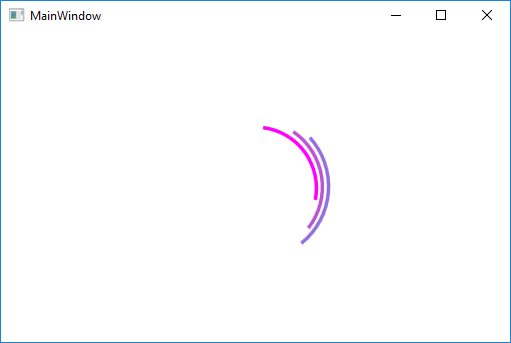
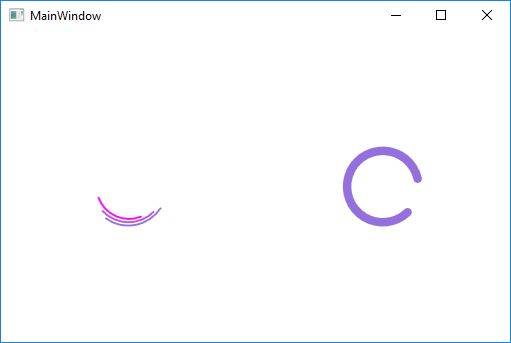
+ added SimplePreloader

Changed region(s): [[0.499, 0.3499, 0.8219, 0.7289], [0.2055, 0.6122, 0.3229, 0.6706], [0.1761, 0.5831, 0.2055, 0.6122]]

diff --git a/XamlPreloader/SimplePreloader.xaml b/XamlPreloader/SimplePreloader.xaml
@@ -1,0 +1,29 @@
+<UserControl x:Class="XamlPreloader.SimplePreloader"
+             xmlns="http://schemas.microsoft.com/winfx/2006/xaml/presentation"
+             xmlns:x="http://schemas.microsoft.com/winfx/2006/xaml"
+             xmlns:mc="http://schemas.openxmlformats.org/markup-compatibility/2006" 
+             xmlns:d="http://schemas.microsoft.com/expression/blend/2008" 
+             xmlns:local="clr-namespace:XamlPreloader"
+             mc:Ignorable="d">
+    <Canvas Height="150" Width="150">
+        <Path Stroke="#9370DB" StrokeThickness="16" RenderTransformOrigin="0.5, 0.5" StrokeEndLineCap="Round" StrokeStartLineCap="Round" Height="150" Stretch="Fill" Width="150">
+            <Path.Data>
+                <PathGeometry Figures="M 139.77658 73.01738 A 64.679222 64.679222 0 0 1 91.487021 135.58559 64.679222 64.679222 0 0 1 18.724391 104.72685 64.679222 64.679222 0 0 1 30.137967 26.519478 64.679222 64.679222 0 0 1 108.68498 17.742851" FillRule="NonZero"/>
+            </Path.Data>
+            <Path.RenderTransform>
+                <RotateTransform x:Name="bigCircle"/>
+            </Path.RenderTransform>
+            <Path.Triggers>
+                <EventTrigger RoutedEvent="Loaded">
+                    <BeginStoryboard>
+                        <Storyboard>
+                            <DoubleAnimation
+                                    Storyboard.TargetProperty="(Path.RenderTransform).(RotateTransform.Angle)"
+                                    To="360" Duration="0:0:1.5" RepeatBehavior="Forever"/>
+                        </Storyboard>
+                    </BeginStoryboard>
+                </EventTrigger>
+            </Path.Triggers>
+        </Path>
+    </Canvas>
+</UserControl>

diff --git a/XamlPreloader/MainWindow.xaml b/XamlPreloader/MainWindow.xaml
@@ -7,8 +7,15 @@
         mc:Ignorable="d"
         Title="MainWindow" Height="350" Width="525">
     <Grid>
-        <Viewbox Width="80" Height="80">
+        <Grid.ColumnDefinitions>
+            <ColumnDefinition/>
+            <ColumnDefinition/>
+        </Grid.ColumnDefinitions>
+        <Viewbox Grid.Column="0" Width="80" Height="80">
             <local:Preloader />
+        </Viewbox>
+        <Viewbox Grid.Column="1" Width="80" Height="80">
+            <local:SimplePreloader />
         </Viewbox>
         
     </Grid>

diff --git a/XamlPreloader/SimplePreloader.xaml.cs b/XamlPreloader/SimplePreloader.xaml.cs
@@ -1,0 +1,28 @@
+using System;
+using System.Collections.Generic;
+using System.Linq;
+using System.Text;
+using System.Threading.Tasks;
+using System.Windows;
+using System.Windows.Controls;
+using System.Windows.Data;
+using System.Windows.Documents;
+using System.Windows.Input;
+using System.Windows.Media;
+using System.Windows.Media.Imaging;
+using System.Windows.Navigation;
+using System.Windows.Shapes;
+
+namespace XamlPreloader
+{
+    /// <summary>
+    /// Логика взаимодействия для Preloader.xaml
+    /// </summary>
+    public partial class SimplePreloader : UserControl
+    {
+        public SimplePreloader()
+        {
+            InitializeComponent();
+        }
+    }
+}
